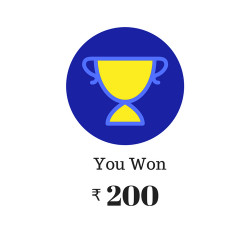
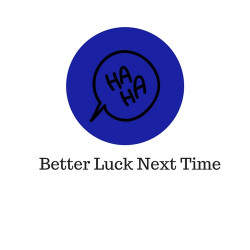
added updates for diwali cards

diff --git a/index.html b/index.html
@@ -25,11 +25,11 @@
 
 <body>
 
-    <h1 class="title-main">FREE ReTez Scrach Cards</h1>
+    <h1 class="title-main">FREE Diwali Stamp scratch cards</h1>
 
    
     <p class="text-intro">
-         <button class="button" onclick="generateCard();">Generate new scrach card</button>
+         <button class="button" onclick="generateCard();">Generate scrach card</button>
         <br>
         <br>
         You have Won a Scrach card!!!
@@ -46,9 +46,11 @@
     </div>
    <p class="text-intro">
         <br>
-      Do not expect payment within 48 hours.
-       <br><br>
-       This is a joke....Really!! Dont expect anything.
+        <h2 >Excellent!!</h2>
+       <br>
+        Expect payment in next Life.
+        <br><br><br>
+        This is a joke....Really!!
        <br>Stop wasting your time.
     </p>
     
@@ -65,8 +67,8 @@
             
       scratch  = new Scratch({
             canvasId: 'js-scratch-canvas',
-            imageBackground: './images/'+getRandomArbitrary(1,6)+'.jpg',
-            pictureOver: './images/foreground.png',
+            imageBackground: './images/'+getRandomArbitrary(1,2)+'.jpg',
+            pictureOver: './images/foreground.jpg',
             radius: 20,
             nPoints: 500,
             percent: 50,

diff --git a/css/style.css b/css/style.css
@@ -44,7 +44,7 @@ body {
 }
 
 .button {
-    background-color: #4286f4; /* Green */
+    background-color: #f66b4c; /* Green */
     border: none;
     color: white;
     padding: 15px 32px;
